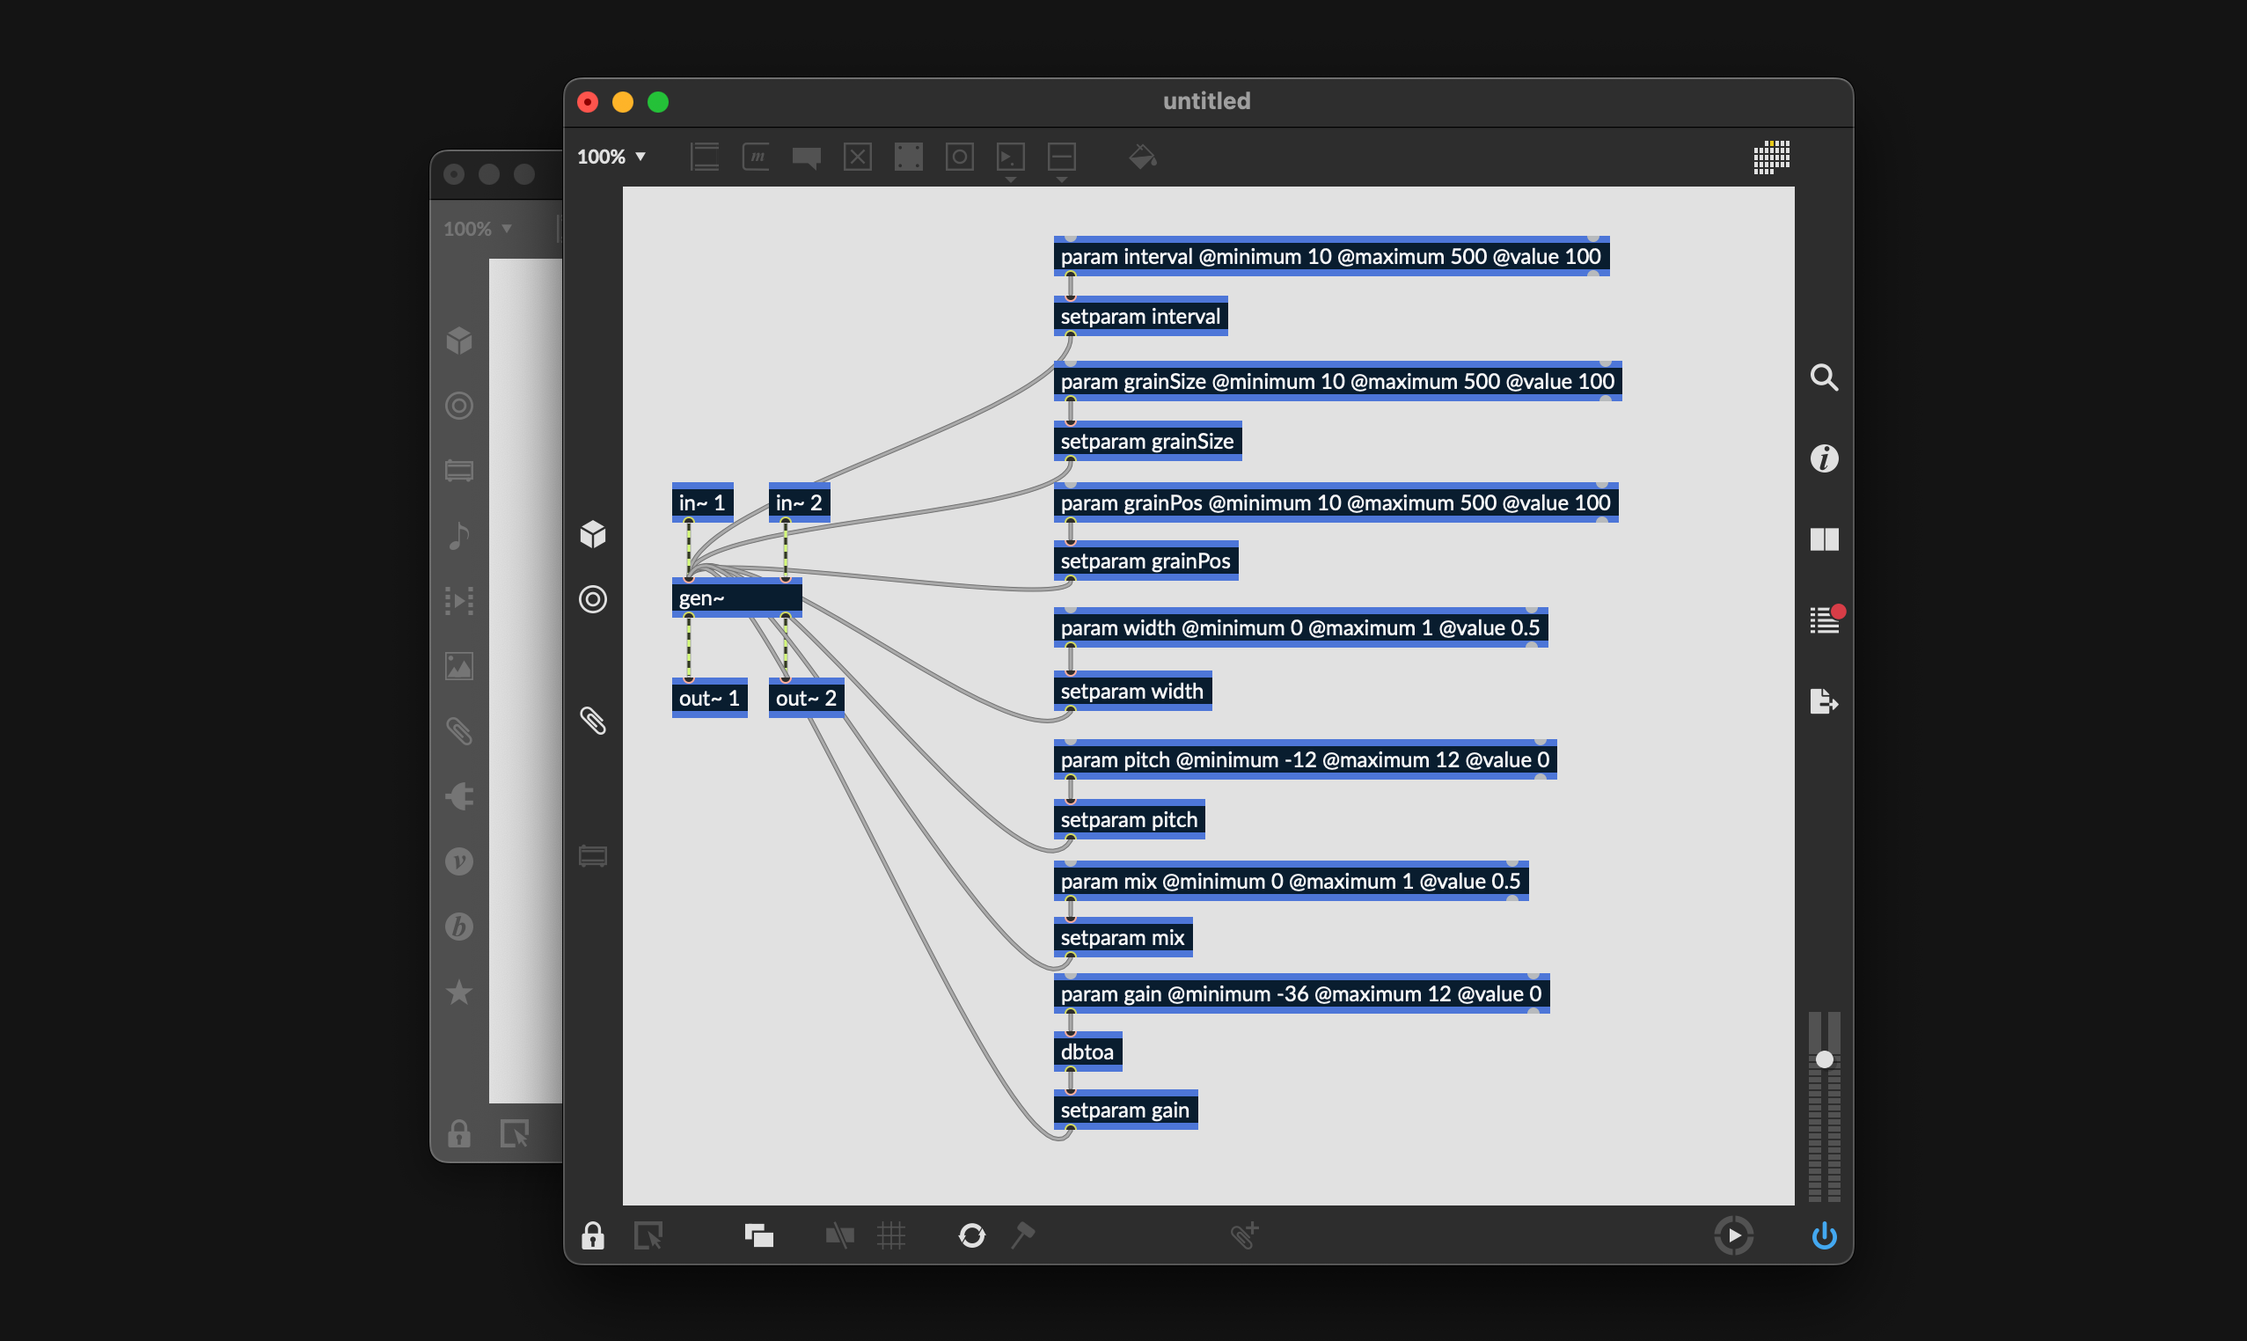
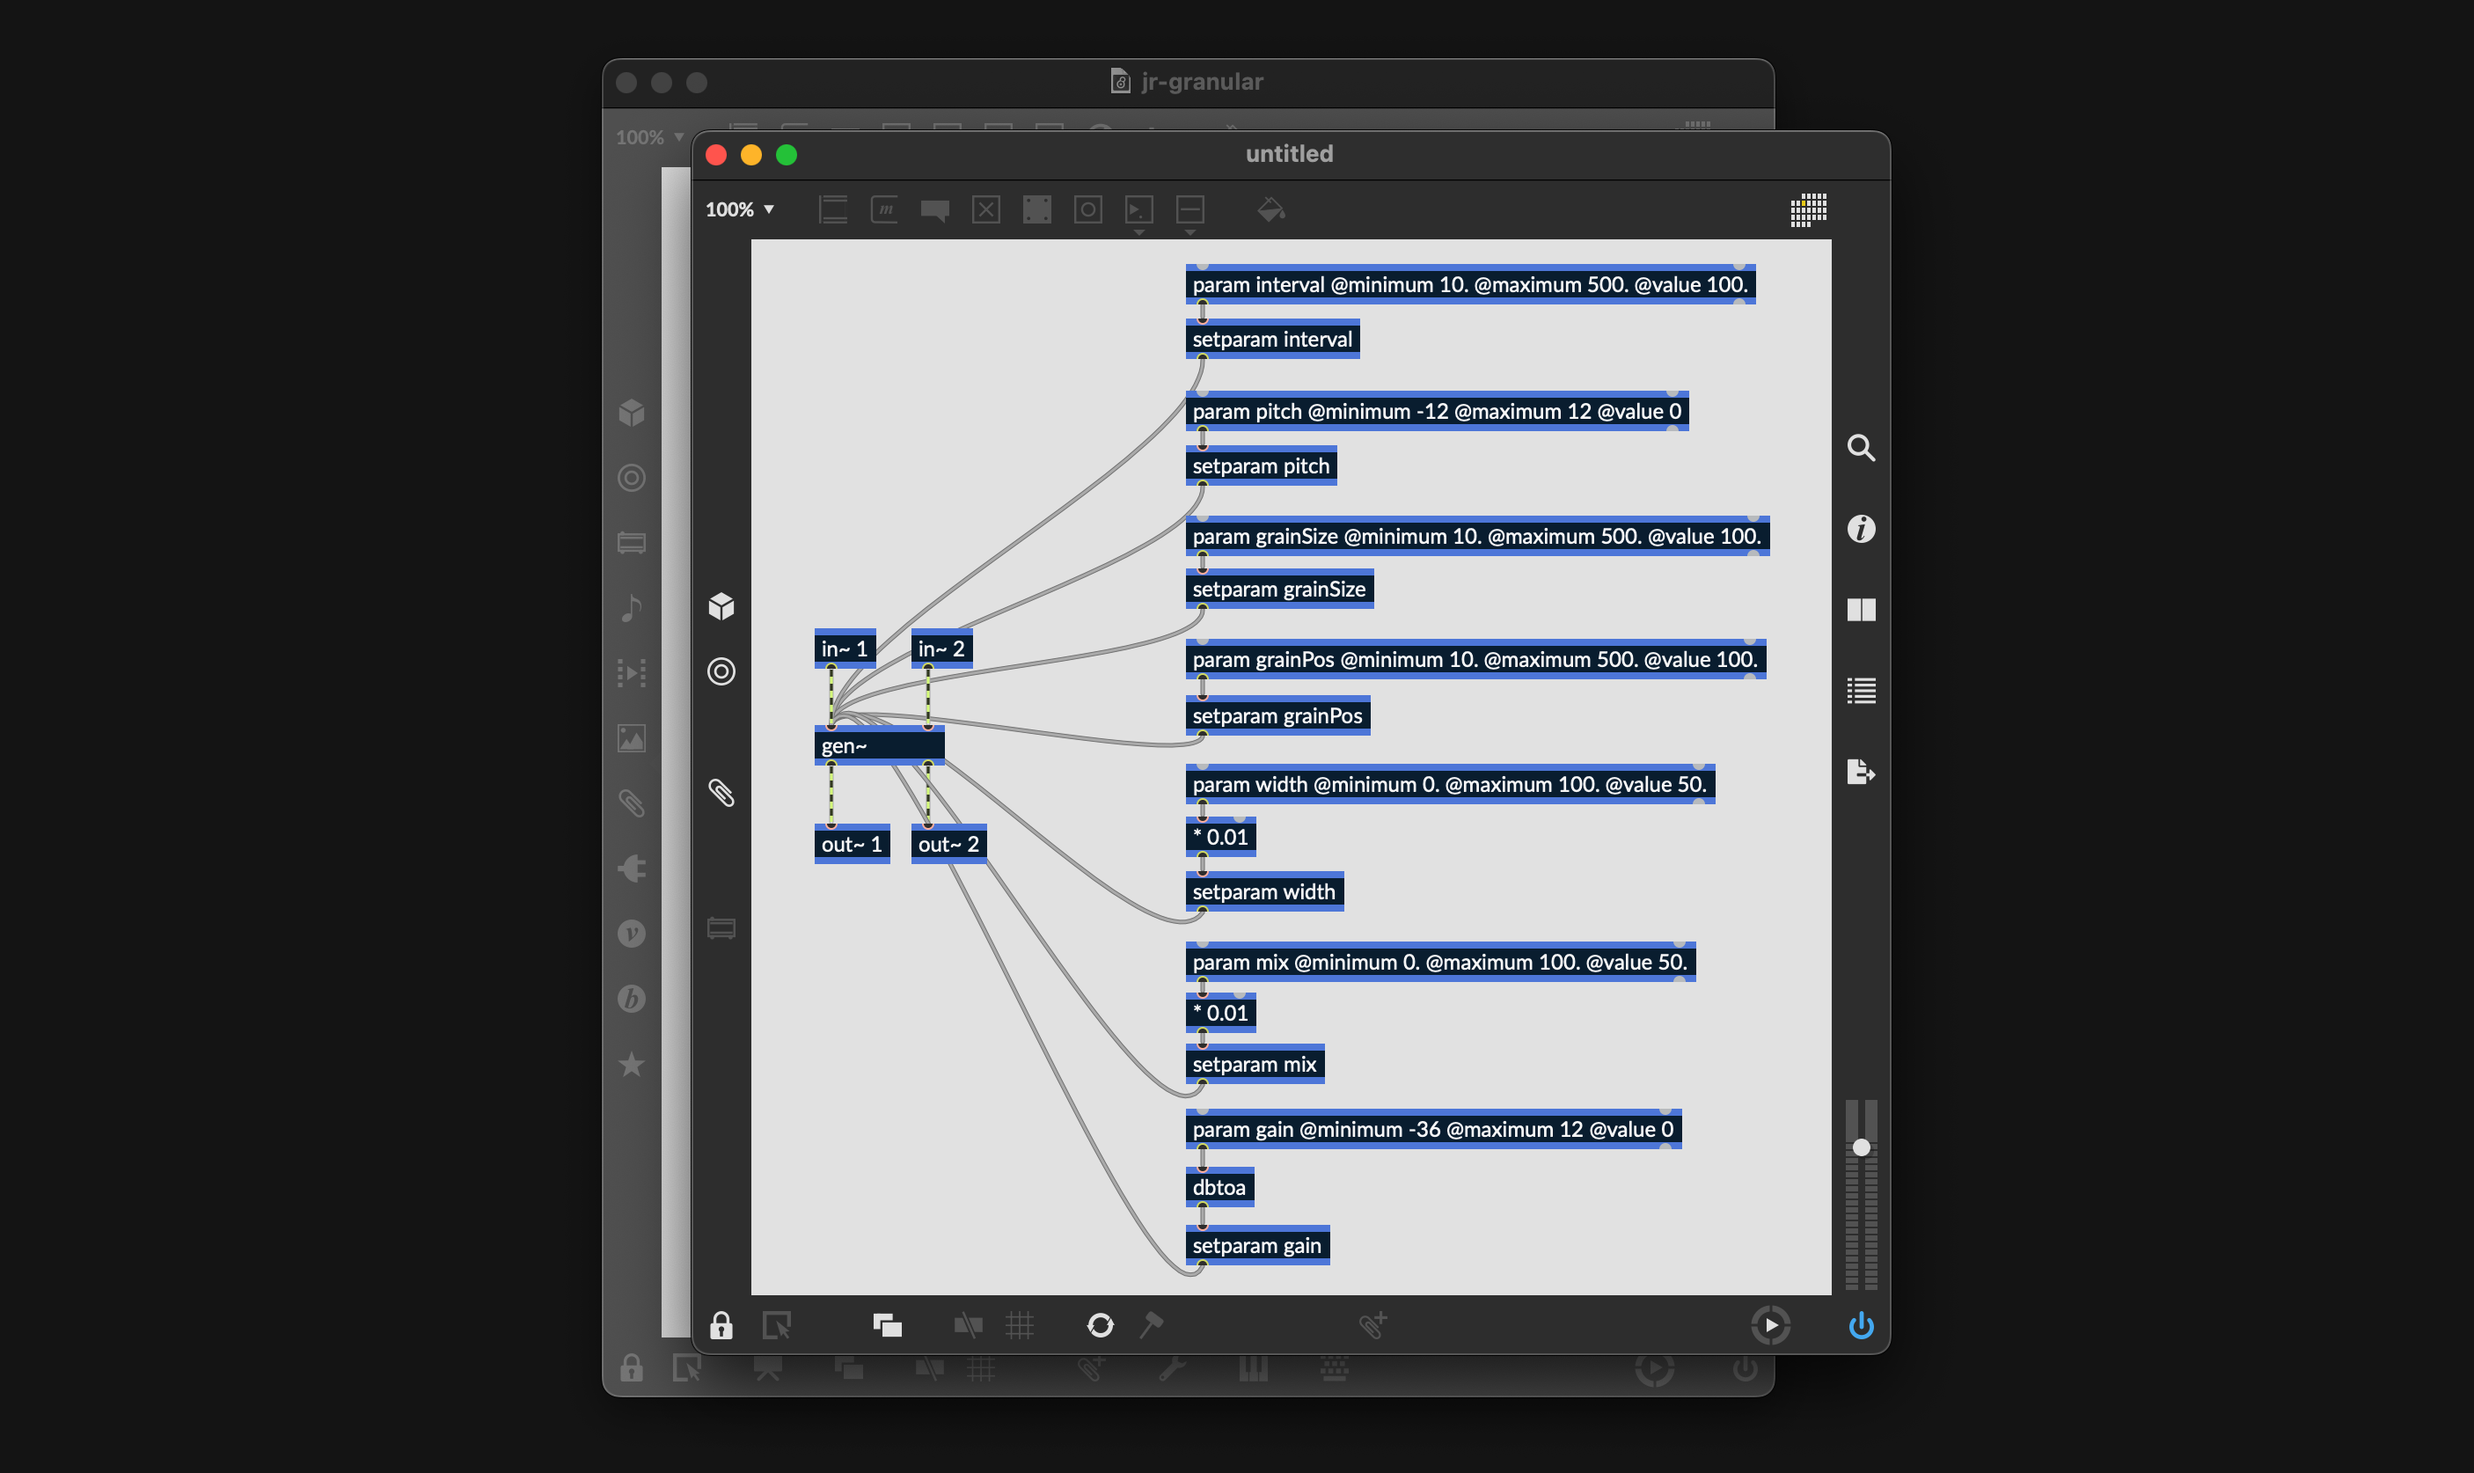
Update jr-granular article

Changed region(s): [[0.1856, 0.0308, 0.8352, 0.956]]

diff --git a/posts/jr-granular.md b/posts/jr-granular.md
@@ -233,17 +233,17 @@ $ build/JR-Granular_artefacts/Debug/Standalone/JR-Granular.app/Contents/MacOS/JR
 ## Connecting the exported code with JUCE
 This chapter explains how to link the exported c++ code with JUCE. My approach is to use [juce::AudioProcessorValueTreeState](https://docs.juce.com/master/classAudioProcessorValueTreeState.html). 
 
-### ParamIDs.h
+### ParamNames.h
 
-First, create the string IDs in ParamIDs.h, which are needed when creating JUCE parameters and when linking the UI and DSP. I do this to prevent typing errors. The value of each variable must always correspond to the value of "paramname" of the param object in the rnbo pacher.
+First, create the string names in ParamNames.h, which are needed when creating JUCE parameters and when linking the UI and DSP. I do this to prevent typing errors. The value of each variable must always correspond to the value of "paramname" of the param object in the rnbo pacher.
 
 ```text:CommandLine
-$ touch Source/ParamIDs.h
+$ touch Source/ParamNames.h
 ```
-```C++:ParamIDs.h
+```C++:ParamNames.h
 #pragma once
 
-namespace ParamIDs
+namespace ParamNames
 {
 
     inline constexpr auto interval  { "interval" };
@@ -254,7 +254,7 @@ namespace ParamIDs
     inline constexpr auto mix       { "mix" };
     inline constexpr auto gain      { "gain" };
 
-} // namespace paramIDs
+} // namespace paramNames
 
 ```
 
@@ -326,10 +326,10 @@ private:
     RNBO::CoreObject rnboObject;
     RNBO::SampleValue** inputBuffers;
     RNBO::SampleValue** outputBuffers;
+    
+    std::unordered_map<juce::String, RNBO::ParameterIndex> apvtsParamNameToRnboParamIndex;
 
     int currentBufferSize { 0 };
-    
-    std::unordered_map<int, RNBO::ParameterIndex> juceParamIndexToRnboParamIndex;
 
     JUCE_DECLARE_NON_COPYABLE_WITH_LEAK_DETECTOR (JRGranularAudioProcessor)
 };
@@ -338,7 +338,7 @@ private:
 ```C++:PluginProcessor.cpp
 #include "PluginProcessor.h"
 #include "PluginEditor.h"
-#include "ParamIDs.h"
+#include "ParamNames.h"
 
 //==============================================================================
 JRGranularAudioProcessor::JRGranularAudioProcessor()
@@ -363,29 +363,28 @@ JRGranularAudioProcessor::JRGranularAudioProcessor()
     for (RNBO::Index i = 0; i < rnboObject.getNumOutputChannels(); i++)
         outputBuffers[i] = nullptr;
 
-    for (RNBO::Index i = 0; i < rnboObject.getNumParameters(); ++i)
+    for (RNBO::ParameterIndex i = 0; i < rnboObject.getNumParameters(); ++i)
     {
         RNBO::ParameterInfo info;
-        rnboObject.getParameterInfo(i, &info);
+        rnboObject.getParameterInfo (i, &info);
 
         if (info.visible)
         {
-            auto name = juce::String (rnboObject.getParameterName (i));
+            auto paramName = juce::String (rnboObject.getParameterName (i));
 
             // Each apvts parameter's name and range must be the same as the rnbo param object's.
-            // If you hit this assertion then you need to fix the incorrect id in ParamIDs.h.
-            jassert (apvts.getParameter (name) != nullptr);  
+            // If you hit this assertion then you need to fix the incorrect name in ParamNames.h.
+            jassert (apvts.getParameter (paramName) != nullptr);  
 
             // If you hit these assertions then you need to fix the incorrect apvts 
             // parameter range in createParameterLayout().
-            jassert (info.min == apvts.getParameter (name)->getNormalisableRange().start);
-            jassert (info.max == apvts.getParameter (name)->getNormalisableRange().end);
+            jassert (info.min == apvts.getParameter (paramName)->getNormalisableRange().start);
+            jassert (info.max == apvts.getParameter (paramName)->getNormalisableRange().end);
 
-            auto juceParamIndex = apvts.getParameter (name)->getParameterIndex();
-            juceParamIndexToRnboParamIndex[juceParamIndex] = i;
+            apvtsParamNameToRnboParamIndex[paramName] = i;
 
-            apvts.addParameterListener (name, this);
-            rnboObject.setParameterValue (i, apvts.getRawParameterValue (name)->load());
+            apvts.addParameterListener (paramName, this);
+            rnboObject.setParameterValue (i, apvts.getRawParameterValue (paramName)->load());
         }
     }
 }
@@ -575,8 +574,7 @@ void JRGranularAudioProcessor::setStateInformation (const void* data, int sizeIn
 
 void JRGranularAudioProcessor::parameterChanged (const juce::String& parameterID, float newValue)
 {
-    auto juceParamIndex = apvts.getParameter (parameterID)->getParameterIndex();
-    rnboObject.setParameterValue (juceParamIndexToRnboParamIndex[juceParamIndex], newValue);
+    rnboObject.setParameterValue (apvtsParamNameToRnboParamIndex[parameterID], newValue);
 }
 
 void JRGranularAudioProcessor::assureBufferSize (int bufferSize)
@@ -622,8 +620,8 @@ juce::AudioProcessorValueTreeState::ParameterLayout JRGranularAudioProcessor::cr
             return juce::String (std::roundf (value)) + " ms";
     };
 
-    layout.add (std::make_unique<juce::AudioParameterFloat> (juce::ParameterID { ParamIDs::interval, 1 },
-                                                             ParamIDs::interval,
+    layout.add (std::make_unique<juce::AudioParameterFloat> (juce::ParameterID { ParamNames::interval, 1 },
+                                                             ParamNames::interval,
                                                              juce::NormalisableRange<float> (10.0f, 500.0f, 0.01f, 0.405f),
                                                              100.0f,
                                                              juce::String(),
@@ -631,8 +629,8 @@ juce::AudioProcessorValueTreeState::ParameterLayout JRGranularAudioProcessor::cr
                                                              msFormat,
                                                              nullptr));
 
-    layout.add (std::make_unique<juce::AudioParameterFloat> (juce::ParameterID { ParamIDs::pitch, 1 }, 
-                                                             ParamIDs::pitch,
+    layout.add (std::make_unique<juce::AudioParameterFloat> (juce::ParameterID { ParamNames::pitch, 1 }, 
+                                                             ParamNames::pitch,
                                                              juce::NormalisableRange<float> (-12.0f, 12.0f, 0.1f, 1.0f),
                                                              0.0f,
                                                              juce::String(),
@@ -641,8 +639,8 @@ juce::AudioProcessorValueTreeState::ParameterLayout JRGranularAudioProcessor::cr
                                                                 return juce::String (value, 1) + " st"; },
                                                              nullptr));
 
-    layout.add (std::make_unique<juce::AudioParameterFloat> (juce::ParameterID { ParamIDs::grainPos, 1 }, 
-                                                             ParamIDs::grainPos,
+    layout.add (std::make_unique<juce::AudioParameterFloat> (juce::ParameterID { ParamNames::grainPos, 1 }, 
+                                                             ParamNames::grainPos,
                                                              juce::NormalisableRange<float> (10.0f, 500.0f, 1.0f, 0.405f),
                                                              100.0f,
                                                              juce::String(),
@@ -650,8 +648,8 @@ juce::AudioProcessorValueTreeState::ParameterLayout JRGranularAudioProcessor::cr
                                                              msFormat,
                                                              nullptr));
 
-    layout.add (std::make_unique<juce::AudioParameterFloat> (juce::ParameterID { ParamIDs::grainSize, 1 }, 
-                                                             ParamIDs::grainSize,
+    layout.add (std::make_unique<juce::AudioParameterFloat> (juce::ParameterID { ParamNames::grainSize, 1 }, 
+                                                             ParamNames::grainSize,
                                                              juce::NormalisableRange<float> (10.0f, 500.0f, 0.01f, 0.405f),
                                                              100.0f,
                                                              juce::String(),
@@ -659,9 +657,8 @@ juce::AudioProcessorValueTreeState::ParameterLayout JRGranularAudioProcessor::cr
                                                              msFormat,
                                                              nullptr));
 
-    auto convertToPercent = [](float value, int)
+    auto percentFormat = [](float value, int)
     {
-         value *= 100;
          if (value < 10.0f)
              return juce::String (value, 2) + " %";
          else if (value < 100.0f)
@@ -670,31 +667,26 @@ juce::AudioProcessorValueTreeState::ParameterLayout JRGranularAudioProcessor::cr
              return juce::String (value, 0) + " %"; 
     };
 
-    auto convertFromPercent = [](const juce::String& string)
-    {
-        return string.getFloatValue() * 0.01f;
-    };
-
-    layout.add (std::make_unique<juce::AudioParameterFloat> (juce::ParameterID { ParamIDs::mix, 1 }, 
-                                                             ParamIDs::mix,
-                                                             juce::NormalisableRange<float> (0.0f, 1.0f, 0.0001f, 1.0f),
-                                                             0.5f,
+    layout.add (std::make_unique<juce::AudioParameterFloat> (juce::ParameterID { ParamNames::mix, 1 }, 
+                                                             ParamNames::mix,
+                                                             juce::NormalisableRange<float> (0.0f, 100.0f, 0.01f, 1.0f),
+                                                             50.0f,
                                                              juce::String(),
                                                              juce::AudioProcessorParameter::genericParameter,
-                                                             convertToPercent,
-                                                             convertFromPercent));
+                                                             percentFormat,
+                                                             nullptr));
 
-    layout.add (std::make_unique<juce::AudioParameterFloat> (juce::ParameterID { ParamIDs::width, 1 }, 
-                                                             ParamIDs::width,
-                                                             juce::NormalisableRange<float> (0.0f, 1.0f, 0.0001f, 1.0f),
-                                                             0.5f,
+    layout.add (std::make_unique<juce::AudioParameterFloat> (juce::ParameterID { ParamNames::width, 1 }, 
+                                                             ParamNames::width,
+                                                             juce::NormalisableRange<float> (0.0f, 100.0f, 0.01f, 1.0f),
+                                                             50.0,
                                                              juce::String(),
                                                              juce::AudioProcessorParameter::genericParameter,
-                                                             convertToPercent,
-                                                             convertFromPercent));
+                                                             percentFormat,
+                                                             nullptr));
 
-    layout.add (std::make_unique<juce::AudioParameterFloat> (juce::ParameterID { ParamIDs::gain, 1 }, 
-                                                             ParamIDs::gain,
+    layout.add (std::make_unique<juce::AudioParameterFloat> (juce::ParameterID { ParamNames::gain, 1 }, 
+                                                             ParamNames::gain,
                                                              juce::NormalisableRange<float> (-36.0f, 12.0f, 0.1f, 2.4f),
                                                              0.0f,
                                                              juce::String(),
@@ -925,20 +917,20 @@ private:
 Connect the corresponding APVTS parameters to each Dial and set them to be displayed in the plugin editor.
 
 ```c++:PluginEditor.cpp
-#include "ParamIDs.h"
+#include "ParamNames.h"
 ```
 ```c++:PluginEditor.cpp
 JRGranularAudioProcessorEditor::JRGranularAudioProcessorEditor (JRGranularAudioProcessor& p,
                                                                 juce::AudioProcessorValueTreeState& state,
                                                                 juce::UndoManager& um)
     : AudioProcessorEditor (&p), audioProcessor (p), undoManager (um),
-      intvDial  (*state.getParameter (ParamIDs::interval),  um),
-      pitchDial (*state.getParameter (ParamIDs::pitch),     um),
-      sizeDial  (*state.getParameter (ParamIDs::grainSize), um),
-      posDial   (*state.getParameter (ParamIDs::grainPos),  um),
-      widthDial (*state.getParameter (ParamIDs::width),     um),
-      mixDial   (*state.getParameter (ParamIDs::mix),       um),
-      gainDial  (*state.getParameter (ParamIDs::gain),      um)
+      intvDial  (*state.getParameter (ParamNames::interval),  um),
+      pitchDial (*state.getParameter (ParamNames::pitch),     um),
+      sizeDial  (*state.getParameter (ParamNames::grainSize), um),
+      posDial   (*state.getParameter (ParamNames::grainPos),  um),
+      widthDial (*state.getParameter (ParamNames::width),     um),
+      mixDial   (*state.getParameter (ParamNames::mix),       um),
+      gainDial  (*state.getParameter (ParamNames::gain),      um)
 
 {
     setWantsKeyboardFocus (true);
